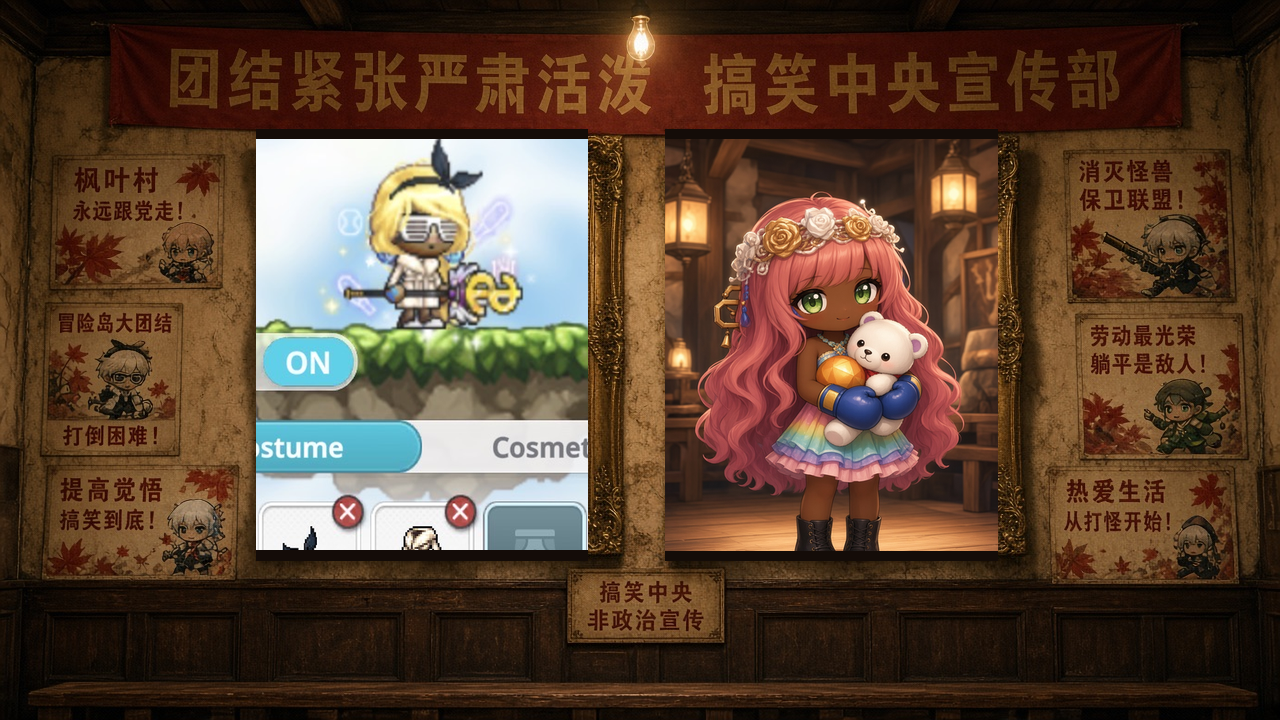
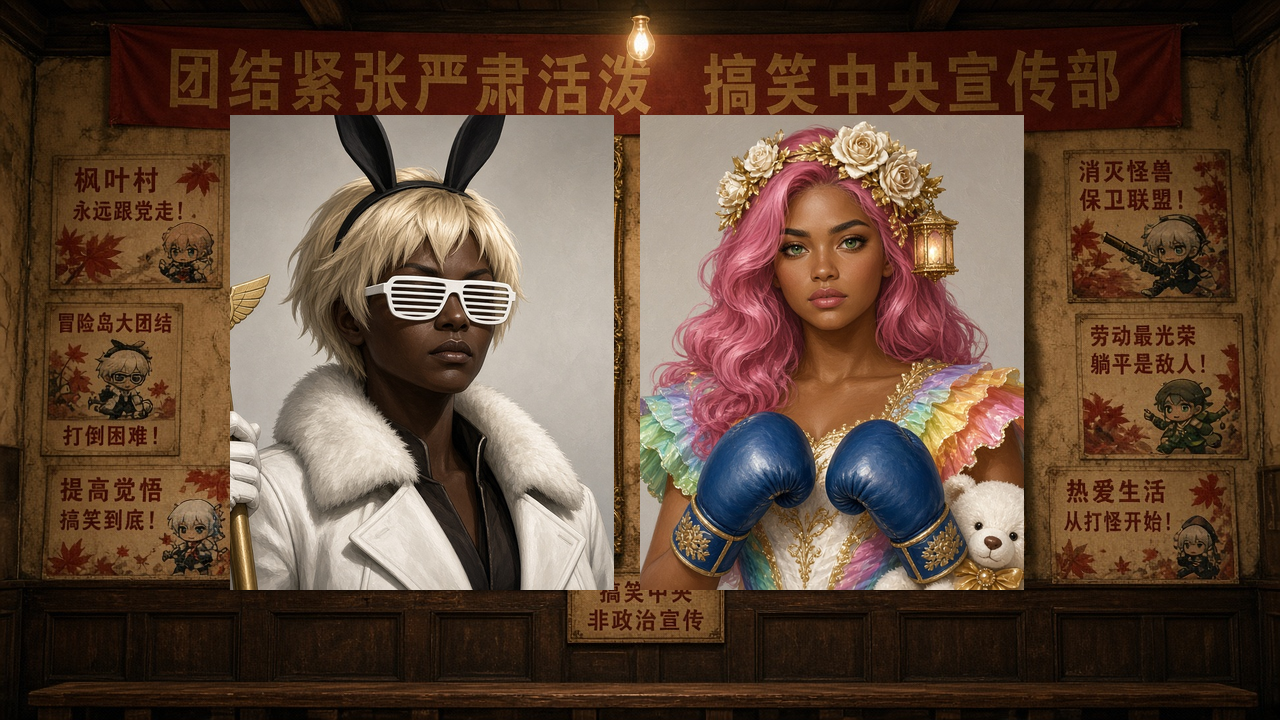
NumbahWan LP v4: formal 标准像 stilts + mobile 2-col
Replace UI-paste hangings with bust/half-length 主席/副主席
portraits; first viewport CSS grid keeps BOTH readable on mobile.

diff --git a/index.html b/index.html
@@ -5,72 +5,93 @@
 <meta name="viewport" content="width=device-width, initial-scale=1" />
 <title>NumbahWan · 總書記廳 · 12月24日</title>
 <meta name="theme-color" content="#1a120c" />
-<meta name="description" content="NumbahWan 搞笑中央 — 宣傳畫時代會議室。RegginA + RegginO 主掛像。Join Freely。" />
-<link rel="preconnect" href="https://fonts.googleapis.com" />
-<link rel="preconnect" href="https://fonts.gstatic.com" crossorigin />
+<meta name="description" content="NumbahWan 搞笑中央 — 主席/副主席标准像掛牆。Join Freely。12月24日。" />
 <link href="https://fonts.googleapis.com/css2?family=Noto+Sans+TC:wght@400;700;900&display=swap" rel="stylesheet" />
 <style>
-:root {
-  --ink: #1a120c;
-  --cream: #f4e8d4;
-  --vermillion: #c41e1e;
-  --gold: #c9a227;
-  --font: "Noto Sans TC", "PingFang TC", "Microsoft JhengHei", sans-serif;
+:root{
+  --ink:#1a120c; --cream:#f4e8d4; --vermillion:#c41e1e; --gold:#c9a227;
+  --font:"Noto Sans TC","PingFang TC","Microsoft JhengHei",sans-serif;
 }
 *{box-sizing:border-box}
-body{margin:0;font-family:var(--font);background:var(--ink);color:var(--cream);line-height:1.45}
+body{margin:0;font-family:var(--font);background:var(--ink);color:var(--cream);line-height:1.4}
 .stamp{
-  position:fixed;z-index:50;top:0.6rem;right:0.6rem;
-  background:var(--cream);color:var(--vermillion);
-  border:2px solid var(--vermillion);font-weight:900;font-size:0.65rem;
-  line-height:1.2;padding:0.35rem 0.5rem;text-align:center;transform:rotate(3deg);
+  position:fixed;z-index:60;top:.55rem;right:.55rem;
+  background:var(--cream);color:var(--vermillion);border:2px solid var(--vermillion);
+  font-weight:900;font-size:.62rem;line-height:1.15;padding:.3rem .45rem;text-align:center;
+  transform:rotate(3deg);
 }
 .hero{
-  position:relative;min-height:100vh;min-height:100dvh;
-  display:grid;align-items:end;
+  min-height:100vh;min-height:100dvh;
+  display:flex;flex-direction:column;justify-content:flex-start;
+  background:
+    linear-gradient(180deg, rgba(26,18,12,.35), rgba(26,18,12,.92)),
+    url("assets/v4/room-hero.png") center/cover no-repeat;
+  padding:2.75rem .75rem 1.25rem;
 }
-.hero img.room{
-  position:absolute;inset:0;width:100%;height:100%;object-fit:cover;object-position:center center;
+.banner{
+  align-self:center;background:var(--vermillion);color:var(--gold);
+  font-weight:900;font-size:clamp(.75rem,2.8vw,1rem);
+  padding:.45rem .9rem;border:2px solid var(--gold);margin-bottom:.75rem;text-align:center;
 }
-.hero-scrim{
-  position:relative;z-index:1;
-  background:linear-gradient(transparent 40%, rgba(26,18,12,.92) 100%);
-  padding:1.25rem 1rem 1.5rem;
+.mains{
+  display:grid;grid-template-columns:1fr 1fr;gap:.55rem;
+  width:min(100%,42rem);margin:0 auto;flex:1;align-content:center;
 }
-.hero-scrim h1{margin:0 0 0.35rem;font-size:clamp(1.35rem,4vw,2rem);font-weight:900}
-.hero-scrim p{margin:0 0 0.75rem;font-size:0.95rem;opacity:0.92;max-width:36rem}
-.meta{display:flex;flex-wrap:wrap;gap:0.5rem 1rem;font-size:0.8rem;opacity:0.85;margin-bottom:0.9rem}
+.mains figure{
+  margin:0;background:#0c0805;
+  border:3px solid var(--gold);box-shadow:0 0 0 2px #5a4208, 4px 6px 0 rgba(0,0,0,.45);
+  display:flex;flex-direction:column;
+}
+.mains img{
+  width:100%;aspect-ratio:3/4;object-fit:cover;object-position:center top;display:block;
+  background:#2a2a2a;
+}
+.mains figcaption{
+  padding:.35rem .4rem;font-size:clamp(.65rem,2.5vw,.8rem);font-weight:900;
+  background:rgba(0,0,0,.75);text-align:center;color:var(--gold);
+}
+.scrim{
+  width:min(100%,42rem);margin:.85rem auto 0;
+}
+.scrim h1{margin:0 0 .25rem;font-size:clamp(1.2rem,4.5vw,1.85rem);font-weight:900}
+.scrim p{margin:0 0 .65rem;font-size:.9rem;opacity:.92}
+.meta{display:flex;flex-wrap:wrap;gap:.4rem .85rem;font-size:.78rem;opacity:.88;margin-bottom:.7rem}
 .meta strong{color:var(--gold)}
 .cta{
   display:inline-block;background:var(--vermillion);color:var(--cream);
-  text-decoration:none;font-weight:900;padding:0.65rem 1rem;border:2px solid var(--gold);
+  text-decoration:none;font-weight:900;padding:.6rem .95rem;border:2px solid var(--gold);
 }
 .cta:focus-visible{outline:3px solid var(--gold);outline-offset:2px}
-.panel{
-  max-width:42rem;margin:0 auto;padding:1.5rem 1rem 2.5rem;
-}
-.panel h2{margin:0 0 0.5rem;font-size:1.1rem;font-weight:900;color:var(--gold)}
-.panel ul{margin:0 0 1rem;padding-left:1.1rem;opacity:0.9;font-size:0.95rem}
-.likeness{
-  display:grid;grid-template-columns:1fr 1fr;gap:0.75rem;margin:1rem 0;
-}
-.likeness figure{margin:0;border:2px solid var(--gold);background:#0d0906}
-.likeness img{width:100%;display:block;aspect-ratio:4/5;object-fit:cover;object-position:center top}
-.likeness figcaption{padding:0.4rem 0.5rem;font-size:0.7rem;font-weight:700}
-footer{padding:0 1rem 2rem;font-size:0.7rem;opacity:0.65;max-width:42rem;margin:0 auto}
-@media (max-width:520px){
-  .likeness{grid-template-columns:1fr}
+.panel{max-width:42rem;margin:0 auto;padding:1.25rem .85rem 2rem}
+.panel h2{margin:0 0 .5rem;font-size:1.05rem;font-weight:900;color:var(--gold)}
+.evidence{display:grid;grid-template-columns:1fr 1fr;gap:.65rem}
+.evidence figure{margin:0;border:1px solid #5a4208;background:#0c0805}
+.evidence img{width:100%;display:block;aspect-ratio:3/4;object-fit:cover;object-position:center top}
+.evidence figcaption{padding:.35rem;font-size:.68rem;opacity:.85}
+footer{max-width:42rem;margin:0 auto;padding:0 .85rem 2rem;font-size:.68rem;opacity:.65}
+@media (max-width:420px){
+  .mains{gap:.4rem}
+  .mains figcaption{font-size:.62rem;padding:.28rem}
 }
 </style>
 </head>
 <body>
   <div class="stamp">搞笑中央<br/>非政治宣傳</div>
-
-  <section class="hero" aria-label="總書記廳第一視口">
-    <img class="room" src="assets/v4/room-hero.png" width="1280" height="720" alt="宣傳畫時代會議室：牆上主掛 RegginA（白毛領風衣+$杖+百葉窗墨鏡）與 RegginO（粉髮彩虹澎裙+藍拳套+泰迪），周圍楓葉宣傳畫" />
-    <div class="hero-scrim">
+  <section class="hero" aria-label="總書記廳 — 主席/副主席标准像">
+    <div class="banner">團結緊張嚴肅活潑 · 第一屆中央大會 12月24日</div>
+    <div class="mains">
+      <figure>
+        <img src="assets/v4/formal-reggina-zhuxi.png" width="768" height="1024" alt="總書記 RegginA 标准像：白毛領風衣、百葉窗墨鏡、帶翼美元杖" />
+        <figcaption>總書記 · RegginA</figcaption>
+      </figure>
+      <figure>
+        <img src="assets/v4/formal-reggino-fuzhuxi.png" width="768" height="1024" alt="副書記 RegginO 标准像：粉髮花冠、彩虹澎袖、藍拳套、泰迪" />
+        <figcaption>副書記 · RegginO</figcaption>
+      </figure>
+    </div>
+    <div class="scrim">
       <h1>NumbahWan · 總書記廳</h1>
-      <p>第一視口＝會議室牆面。總書記 / 副書記主掛像主導，不是奶油紙上的小郵票。</p>
+      <p>牆上主掛＝主席 / 副主席<strong>标准像</strong>（半身、淨底）— 不是遊戲 UI 貼進金框。</p>
       <div class="meta">
         <span><strong>大會</strong> 12月24日</span>
         <span><strong>入會</strong> Join Freely</span>
@@ -79,26 +100,19 @@ footer{padding:0 1rem 2rem;font-size:0.7rem;opacity:0.65;max-width:42rem;margin:
       <a class="cta" href="https://numbahwanguild.grok.me/" rel="noopener">想来就来 · Join</a>
     </div>
   </section>
-
   <section class="panel">
-    <h2>主掛像 · 對照用裁切（Evidence）</h2>
-    <div class="likeness">
+    <h2>Evidence · 标准像 stilts（對照 L1/L2 特徵，非原圖貼上）</h2>
+    <div class="evidence">
       <figure>
-        <img src="assets/v4/portrait-reggina-l1.png" alt="RegginA L1 crop from gs-costume" width="420" height="520" />
-        <figcaption>總書記 RegginA · Exact Source refs/gs-costume.jpeg</figcaption>
+        <img src="assets/v4/formal-reggina-zhuxi.png" alt="RegginA formal stilt" />
+        <figcaption>主席像 stilt · traits ← refs/gs-costume.jpeg</figcaption>
       </figure>
       <figure>
-        <img src="assets/v4/portrait-reggino-l2.png" alt="RegginO L2 from reggino.jpg" width="420" height="520" />
-        <figcaption>副書記 RegginO · Exact Source assets/portraits/reggino.jpg</figcaption>
+        <img src="assets/v4/formal-reggino-fuzhuxi.png" alt="RegginO formal stilt" />
+        <figcaption>副主席像 stilt · traits ← portraits/reggino.jpg</figcaption>
       </figure>
     </div>
-    <h2>公會事實</h2>
-    <ul>
-      <li>總書記 RegginA · 副書記 RegginO</li>
-      <li>第一屆中央大會 <strong>12月24日</strong></li>
-      <li>职衔：總書記 / 中央政委 / 黨員 / 預備黨員 · Join Freely</li>
-    </ul>
   </section>
-  <footer>v4 room grammar · likeness HARD GATE in DESIGN.md · Anti-copy grok.me · archive/v3 superseded</footer>
+  <footer>v4 标准像 amend · HARD REJECT #10 UI paste · mobile 2-col both MAIN · AntiSlop KEEP</footer>
 </body>
 </html>

diff --git a/DESIGN.md b/DESIGN.md
@@ -1,75 +1,27 @@
-# DESIGN.md — NumbahWan LP v4 (room + likeness HARD GATE)
+# DESIGN.md — NumbahWan LP v4 (标准像 amend)
 
[2 lines of base64/hex data omitted]
+**Parent KEEP:** `3becbdc6…` room-dominant + likeness traits  
 **KEEP AntiSlop:** `4aa03b3f…`  
-**SUPERSEDE:** v3 composition/likeness `ea444d3f…` → `archive/v3/`  
-**Tone:** 搞笑中央 / 非政治宣傳 — parody only.
+**Tone:** 搞笑中央 / 非政治宣傳
 
-## Reader job
-First viewport reads as an **ultra-real propaganda-era guild room** with **two dominant hanging portraits** (總書記 RegginA + 副書記 RegginO); laugh; Join Freely / 12·24.
+## Composition
+First viewport = propaganda-era room with **two dominant formal 主席/副主席 hanging portraits** (标准像 treatment). Mobile must keep **BOTH** MAIN portraits readable (2-col DOM frames — not a single photo that side-crops).
 
-## Composition move (PRIMARY)
-**Room-dominant wall-portrait grammar** (HKBU 《关心集体》 + Great Hall interior feel).  
-NOT cream postage-plate scrub. NOT full-site red CSS. NOT grok.me dump.
+## Portrait treatment (主席像)
+Taikang 标准像 grammar: photo/paint → clean bg → bust/half-length → framed hang.  
+L1/L2 = **likeness REFERENCE only** (hair/apparel/props). Never drop unedited Maple/UI still into a frame.
 
-## Exact Sources
-1. Craft room: HKBU 《关心集体》 wall-portrait grammar + chineseposters e37-66 Great Hall interior  
-2. Likeness L1: `refs/gs-costume.jpeg` (wins on apparel conflict vs reggina.jpg)  
-3. Likeness L2: `assets/portraits/reggino.jpg`  
-4. Décor craft (supporting): chineseposters leifeng / Landsberger
+## Likeness traits (HARD FAIL if miss)
+**RegginA:** blonde fringe · white shutter shades · black ribbon ears · white fur trench · lightning gloves · winged $ staff · white high-tops (if shown) · dark skin  
+**RegginO:** pink waves · rose wreath+lantern · green eyes · rainbow ruffles · blue boxing gloves · teddy+gold · dark skin
 
-## Likeness checklist — Critic HARD FAIL if miss
-
-### RegginA / 總書記 (L1 = gs-costume.jpeg)
-| Must | Spec |
-| --- | --- |
-| Hair | Blonde fringe / short–shoulder |
-| Face | **White shutter shades** (horizontal slats) |
-| Head | Thin black headband + upright ribbon ears |
-| Coat | **White fur-collared trench / long coat** |
-| Gloves | White + blue lightning |
-| Shoes | White high-tops |
-| Prop | **Gold winged $ staff** readable in first viewport |
-| Skin | Dark / brown consistent with ref |
-
-### RegginO / 副書記 (L2 = reggino.jpg)
-| Must | Spec |
-| --- | --- |
-| Hair | Long voluminous **pink** waves |
-| Head | Rose wreath + lantern ornament |
-| Eyes | Large green |
-| Dress | Rainbow-ruffle tutu |
-| Boots | Tall black lace-up |
-| Props | **Blue boxing gloves**; white teddy + gold gem |
-| Skin | Dark / tanned consistent with ref |
-
-**Process:** Critic compares hero portrait crops **side-by-side** to L1/L2 files. Soft-defer to B1 = FAIL.
-
-## Scale rule
-Each MAIN portrait frame ≥ ~35% of first-viewport width (combined GS+VGS dominate wall). Tiny centered postage plates = HARD REJECT.
-
-## Density floor
-≥ **6** Maple 宣传画 wall décor pieces + **2** dominant portraits + visible stamp.
-
-## Hard rejects (1–9 class)
-1. Tiny postage plates as primary  
-2. Cream empty field without room interior  
-3. Likeness miss vs L1/L2  
-4. Soft-defer likeness/composition to B1  
-5. Checklist-only paper+stamp+scrub without room GS/VGS  
-6. Clone grok.me  
-7. Full-site red CSS flood  
-8. Real agitation  
-9. Invented apparel / wrong hair
-
-## Tokens (chrome only)
-```css
---ink: #1a120c; --paper-ui: #1a120c; /* dark chrome under hero */
---vermillion: #c41e1e; --gold: #c9a227;
-```
-Hero is the **photo** `assets/v4/room-hero.png` — not CSS red field.
+## HARD REJECTS (add #10–11)
+…prior 1–9…  
+10. UI-chrome / raw game still / grass-platform / Cosmet HUD pasted as 主席像  
+11. Full-body game-pose that fails bust/half-length 标准像 format  
 
 ## Assets
-- `assets/v4/room-hero.png` — composited room (owned L1/L2 pasted into frames)  
-- `assets/v4/portrait-reggina-l1.png` / `portrait-reggino-l2.png` — crops for Evidence  
-- Source refs unchanged under `refs/` + `assets/portraits/reggino.jpg`
+- `assets/v4/formal-reggina-zhuxi.png` · `formal-reggino-fuzhuxi.png` — formal stilts  
+- `assets/v4/room-hero.png` — room composite (desktop atmosphere)  
+- Evidence: stilts vs L1 `refs/gs-costume.jpeg` · L2 `assets/portraits/reggino.jpg`
